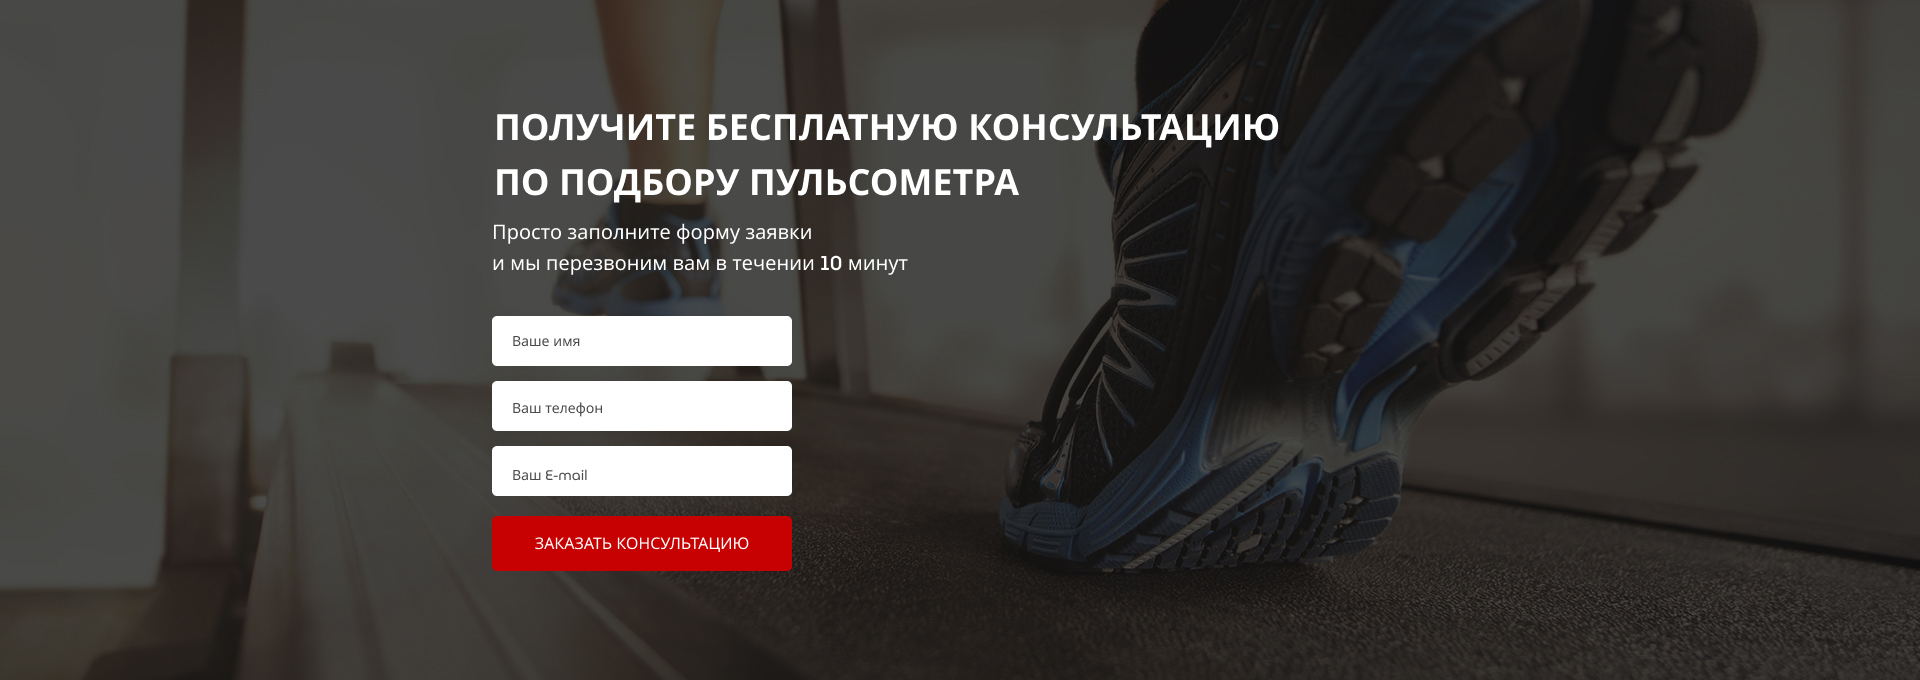
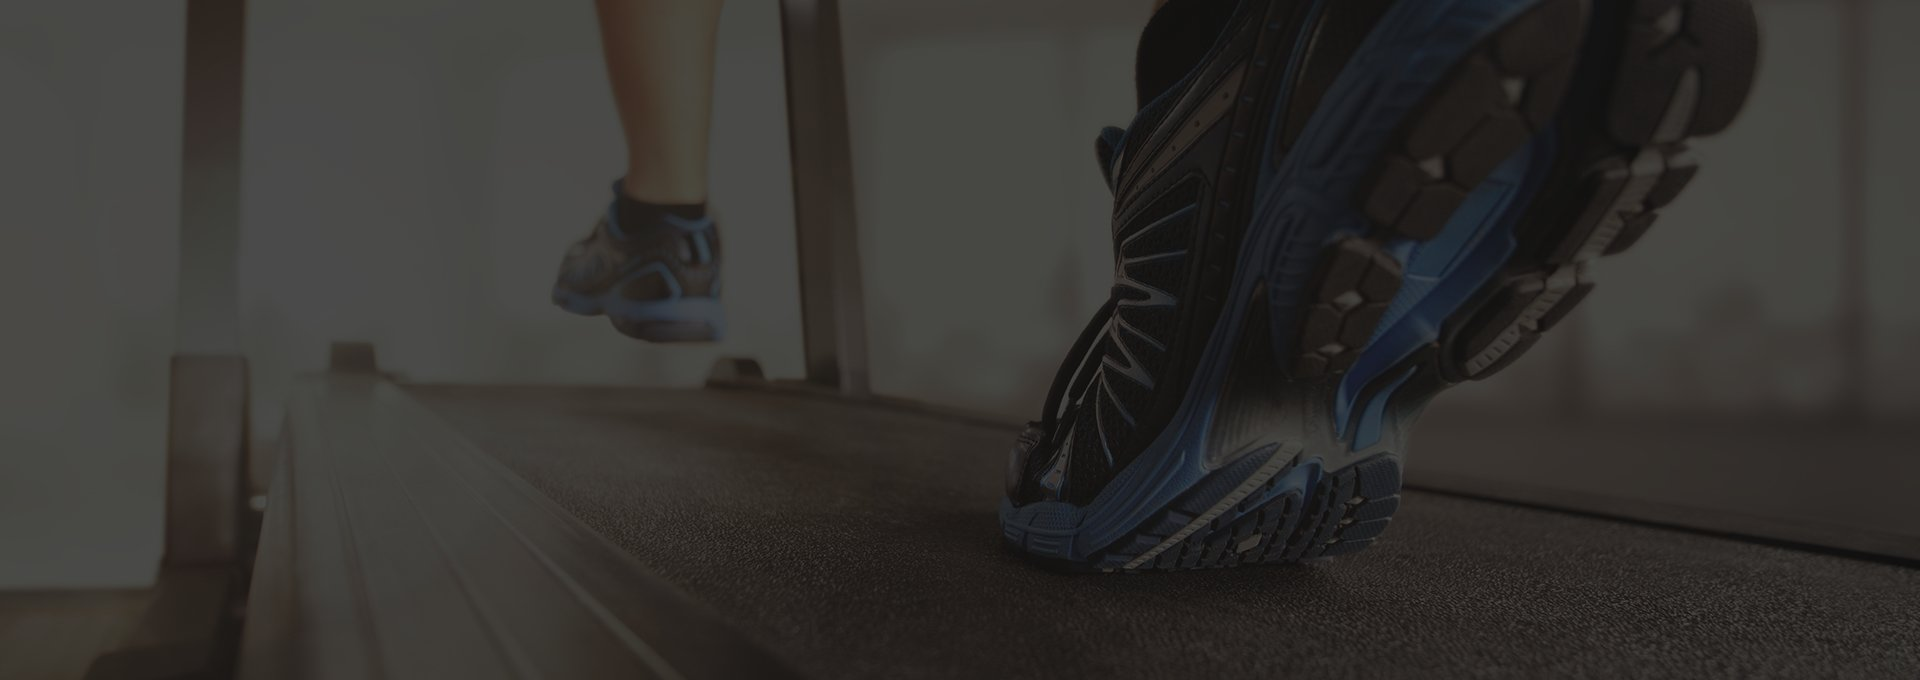
add section consultation with adaptive

diff --git a/src/css/blocks/style.min.css b/src/css/blocks/style.min.css
@@ -1,1 +1,1 @@
-*{font-family:"Museo Sans Cyrl",sans-serif}.container{max-width:950px;margin:0 auto}.promo{min-height:650px;padding:23px 0 93px 0;background:url(../../img/bg/woman.jpg) center center/cover no-repeat}.promo__wrapper{display:flex;flex-direction:column;align-items:flex-end;margin-top:90px}.promo__header{color:#fff;font-size:42px;text-transform:uppercase;line-height:42px;font-weight:700}.promo__subheader{margin-top:17px;color:#fff;text-transform:uppercase;font-weight:500;line-height:24px;font-size:24px}.promo__icons{margin-top:65px;width:425px;display:flex;justify-content:space-between}.promo__icon{width:108px;text-align:center;color:#fff;font-weight:500;font-size:14px}.promo__icon img{display:block;margin:0 auto;margin-bottom:20px}.promo__link{margin-top:18px;font-weight:500;font-size:16px;color:#fff}.promo__link a{text-decoration:underline;text-transform:uppercase;color:#fff}.header{display:flex;justify-content:space-between;align-items:center}.header__logo{width:250px}.header__logo img{width:100%}.header__official{color:#fff;font-weight:300;font-size:12px;text-align:center}.header__official span{font-weight:500;font-size:18px;display:block}.header__phone{font-weight:700;font-size:18px;color:#fff;display:block}.header__phone:hover{color:#fff;text-decoration:none}.header__contacts{display:flex;flex-direction:column;align-items:flex-end}.button{width:153px;height:32px;background-color:#c70101;border-radius:5px;border:none;font-weight:500;font-size:12px;text-transform:uppercase;color:#fff}.button_main{width:300px;height:50px;font-size:16px;margin-top:68px}.advantage{min-height:473px;padding:73px 0 65px 0;background-color:#f6f6f6}.advantage__header{text-align:center;font-size:30px;font-weight:700}.advantage__items{display:flex;justify-content:space-between;margin-top:35px}.advantage__title{margin-top:35px;font-size:18px;font-weight:700}.advantage__descr{margin-top:20px;font-weight:500;font-size:14px}.advantage__descr span{color:red;-webkit-text-decoration-line:underline;text-decoration-line:underline}.advantage__item{width:277px;text-align:center;font-weight:300;font-size:14px}@media(max-width:991px){.promo{padding:23px 20px 93px 20px}.advantage__header{font-size:24px}.advantage__item{padding:5px}.advantage__descr{margin-top:5px}}@media(max-width:767px){.promo__wrapper{align-items:center}.promo__header{font-size:36px}.promo__subheader{font-size:20px;line-height:10px}.promo .header_visible{display:none}.advantage__descr{margin-top:5px;font-size:12px}.advantage__title{font-size:15px}}@media(max-width:575px){.header__logo img{width:80%}.header__phone{font-size:12px}.promo__header{font-size:23px;line-height:15px}.promo__subheader{font-size:13px}.promo__icons{flex-direction:column;align-items:center;margin-top:35px;width:100%}.promo__link{font-size:14px}.button{width:125px;font-size:11px}.advantage__items{flex-direction:column;align-items:center}}
+*{font-family:"Museo Sans Cyrl",sans-serif}.container{max-width:950px;margin:0 auto}.promo{min-height:650px;padding:23px 0 93px 0;background:url(../../img/bg/woman.jpg) center center/cover no-repeat}.promo__wrapper{display:flex;flex-direction:column;align-items:flex-end;margin-top:90px}.promo__header{color:#fff;font-size:42px;text-transform:uppercase;line-height:42px;font-weight:700}.promo__subheader{margin-top:17px;color:#fff;text-transform:uppercase;font-weight:500;line-height:24px;font-size:24px}.promo__icons{margin-top:65px;width:425px;display:flex;justify-content:space-between}.promo__icon{width:108px;text-align:center;color:#fff;font-weight:500;font-size:14px}.promo__icon img{display:block;margin:0 auto;margin-bottom:20px}.promo__link{margin-top:18px;font-weight:500;font-size:16px;color:#fff}.promo__link a{text-decoration:underline;text-transform:uppercase;color:#fff}.header{display:flex;justify-content:space-between;align-items:center}.header__logo{width:250px}.header__logo img{width:100%}.header__official{color:#fff;font-weight:300;font-size:12px;text-align:center}.header__official span{font-weight:500;font-size:18px;display:block}.header__phone{font-weight:700;font-size:18px;color:#fff;display:block}.header__phone:hover{color:#fff;text-decoration:none}.header__contacts{display:flex;flex-direction:column;align-items:flex-end}.button{width:153px;height:32px;background-color:#c70101;border-radius:5px;border:none;font-weight:500;font-size:12px;text-transform:uppercase;color:#fff}.button_main{width:300px;height:50px;font-size:16px;margin-top:68px}.button_submit{width:100%;height:55px;background:#c70101;font-style:16px}.advantage{min-height:473px;padding:73px 0 65px 0;background-color:#f6f6f6}.advantage__items{display:flex;justify-content:space-between;margin-top:35px}.advantage__title{margin-top:35px;font-size:18px;font-weight:700}.advantage__descr{margin-top:20px;font-weight:500;font-size:14px}.advantage__descr span{color:red;-webkit-text-decoration-line:underline;text-decoration-line:underline}.advantage__item{width:277px;text-align:center;font-weight:300;font-size:14px}.consultation{min-height:680px;padding:100px 0 92px 0;background:url(../../img/bg/consultation.jpg) center center/cover no-repeat}.consultation__descr{font-weight:500;font-size:20px;color:#fff;line-height:30px}.title{text-align:center;font-size:30px;font-weight:700;text-transform:uppercase}.title_left{color:#fff;font-size:36px;text-align:left;line-height:54px}.feed-form{margin-top:36px;display:flex;flex-direction:column;width:300px}.feed-form input{height:50px;border-radius:5px;background-color:#fff;margin-bottom:15px;border:none;padding:0 20px;color:#4b4b4b;font-size:14px;font-weight:300}.feed-form input:nth-child(3){margin-bottom:20px}@media(max-width:991px){.promo{padding:23px 20px 93px 20px}.advantage__header{font-size:24px}.advantage__item{padding:5px}.advantage__descr{margin-top:5px}.consultation{padding:100px 40px 92px 40px}.consultation h2{font-size:30px}.consultation h2 br{display:none}}@media(max-width:767px){.promo__wrapper{align-items:center}.promo__header{font-size:36px}.promo__subheader{font-size:20px;line-height:10px}.promo .header_visible{display:none}.advantage__descr{margin-top:5px;font-size:12px}.advantage__title{font-size:15px}.consultation h2{text-align:center;font-size:27px;line-height:40px}.consultation__descr{text-align:center;margin-top:35px}.consultation .feed-form{width:100%}.consultation .button{margin:0 auto;width:100%;font-size:15px}}@media(max-width:575px){.header__logo img{width:80%}.header__phone{font-size:12px}.promo__header{font-size:23px;line-height:15px}.promo__subheader{font-size:13px}.promo__icons{flex-direction:column;align-items:center;margin-top:35px;width:100%}.promo__link{font-size:14px}.button{width:125px;font-size:11px}.advantage__items{flex-direction:column;align-items:center}.consultation{padding:70px 25px 70px 25px;min-height:650px}.consultation__descr{margin-top:30px;font-size:17px}.consultation .button{width:100%;font-size:15px}}

diff --git a/src/index.html b/src/index.html
@@ -15,7 +15,6 @@
                 <header class="header">
                     <a href="#" class="header__logo">
                         <img src="img/icons/women/logo_runing_man.png" alt="run">
-
                     </a>
                     <div class="header__official header_visible">
                         Официальный представитель
@@ -24,8 +23,6 @@
                     <div class="header__contacts">
                         <a href="tel: +74999228974" class="header__phone">+7 (499) 922-89-74</a>
                         <button class="button">заказать звонок</button>
-                        
-
                     </div>
                 </header>
                 <div class="promo__wrapper">
@@ -55,7 +52,7 @@
         </div>
         <div class="advantage">
             <div class="container">
-                <h2 class="advantage__header">НАШИ ПРЕИМУЩЕСТВА</h2>
+                <h2 class="title">НАШИ ПРЕИМУЩЕСТВА</h2>
                 <div class="advantage__items">
                     <div class="advantage__item">
                         <img src="img/icons/privelege/cup.png" alt="cup">
@@ -75,6 +72,20 @@
                 </div>
             </div>
         </div>
+        <div class="consultation">
+            <div class="container">
+                <h2 class="title title_left">Получите бесплатную консультацию <br>по подбору пульсометра</h2>
+                <div class="consultation__descr">Просто заполните форму заявки<br>и мы перезвоним вам в течении 10 минут
+                </div>
+                <form class="feed-form" action="#">
+                    <input name="name" required placeholder = "Ваше имя" type="text">
+                    <input name="phone" required placeholder = "Ваш телефон" type="number">
+                    <input name="email" required placeholder = "Ваше E-mail" type="email">
+                    <button class="button button_submit">заказать кОНСУЛЬТАЦИЮ</button>
+                </form>
+            </div>    
+        </div>
+        
         
         
     </body>

diff --git a/src/sass/blocks/_media.scss b/src/sass/blocks/_media.scss
@@ -2,6 +2,9 @@
 @import "header";
 @import "button";
 @import "advantage";
+@import "consultation";
+@import "titles";
+@import "forms";
 
 
 
@@ -20,6 +23,16 @@
             margin-top: 5px;
         }
     }
+    .consultation {
+        padding: 100px 40px 92px 40px;
+        h2 {
+            font-size: 30px;
+            br {
+                display: none;
+            }
+        }
+    }
+
 }
 
 @media (max-width: 767px) {
@@ -49,6 +62,27 @@
             font-size: 15px;
         }
     }
+
+    .consultation {
+        h2 {
+            text-align: center;
+            font-size: 27px;
+            line-height: 40px;
+        }
+        &__descr {
+            text-align: center;
+            margin-top: 35px;
+        }
+        .feed-form {
+            width: 100%;
+        }
+        .button {
+            margin: 0 auto;
+            width: 100%;
+            font-size: 15px;
+        }
+    }
+    
 
 }
 
@@ -89,4 +123,24 @@
         flex-direction: column;
         align-items:center;
     }
+    .consultation {
+        padding: 70px 25px 70px 25px;
+        min-height: 650px;
+        // h2 {
+        //     font-size: 23px;
+        //     line-height: 40px;
+        // }
+        &__descr {
+            margin-top: 30px;
+            font-size: 17px;
+        }
+        // .feed-form {
+        //     width: 100%;
+        // }
+        .button {
+            width: 100%;
+            font-size: 15px;
+        }
+
+}
 }

diff --git a/src/sass/blocks/_forms.scss b/src/sass/blocks/_forms.scss
@@ -1,0 +1,21 @@
+.feed-form {
+    margin-top: 36px;
+    display: flex;
+    flex-direction: column;
+    width: 300px;
+    input {
+        height: 50px;
+        border-radius: 5px;
+        background-color: #fff;
+        margin-bottom: 15px;
+        border: none;
+        padding: 0 20px;
+        color: #4B4B4B;
+        font-size: 14px;
+        font-weight: 300;
+        &:nth-child(3) {
+            margin-bottom: 20px;
+        }
+    }
+
+}

diff --git a/src/sass/blocks/_consultation.scss b/src/sass/blocks/_consultation.scss
@@ -1,0 +1,12 @@
+.consultation {
+    min-height: 680px;
+    padding: 100px 0 92px 0;
+    background: url('../../img/bg/consultation.jpg') center (center/cover) no-repeat;
+    &__descr {
+        font-weight: 500;
+        font-size: 20px;
+        color: white;
+        line-height: 30px;
+
+    }
+}

diff --git a/src/sass/blocks/_titles.scss b/src/sass/blocks/_titles.scss
@@ -1,0 +1,13 @@
+.title {
+    text-align: center;
+    font-size: 30px;
+    font-weight: 700;
+    text-transform: uppercase;
+    &_left {
+        color: #FFFFFF;
+        font-size: 36px;
+        text-align: left;
+        line-height: 54px;
+    }
+    
+  }

diff --git a/src/sass/blocks/_advantage.scss b/src/sass/blocks/_advantage.scss
@@ -2,11 +2,7 @@
   min-height: 473px;
   padding: 73px 0 65px 0;
   background-color: #f6f6f6;
-  &__header {
-    text-align: center;
-    font-size: 30px;
-    font-weight: 700;
-  }
+  
   &__items {
     display: flex;
     justify-content: space-between;

diff --git a/src/sass/blocks/_button.scss b/src/sass/blocks/_button.scss
@@ -14,4 +14,11 @@
     font-size: 16px;
     margin-top: 68px;
   }
+  &_submit {
+    width: 100%;
+    height: 55px;
+    background: #C70101;
+    font-style: 16px;
+
+  }
 }

diff --git a/src/sass/blocks/_promo.scss b/src/sass/blocks/_promo.scss
@@ -50,8 +50,6 @@
       text-decoration: underline;
       text-transform: uppercase;
       color: #FFFFFF;
-
     }
-    
   }
 }
